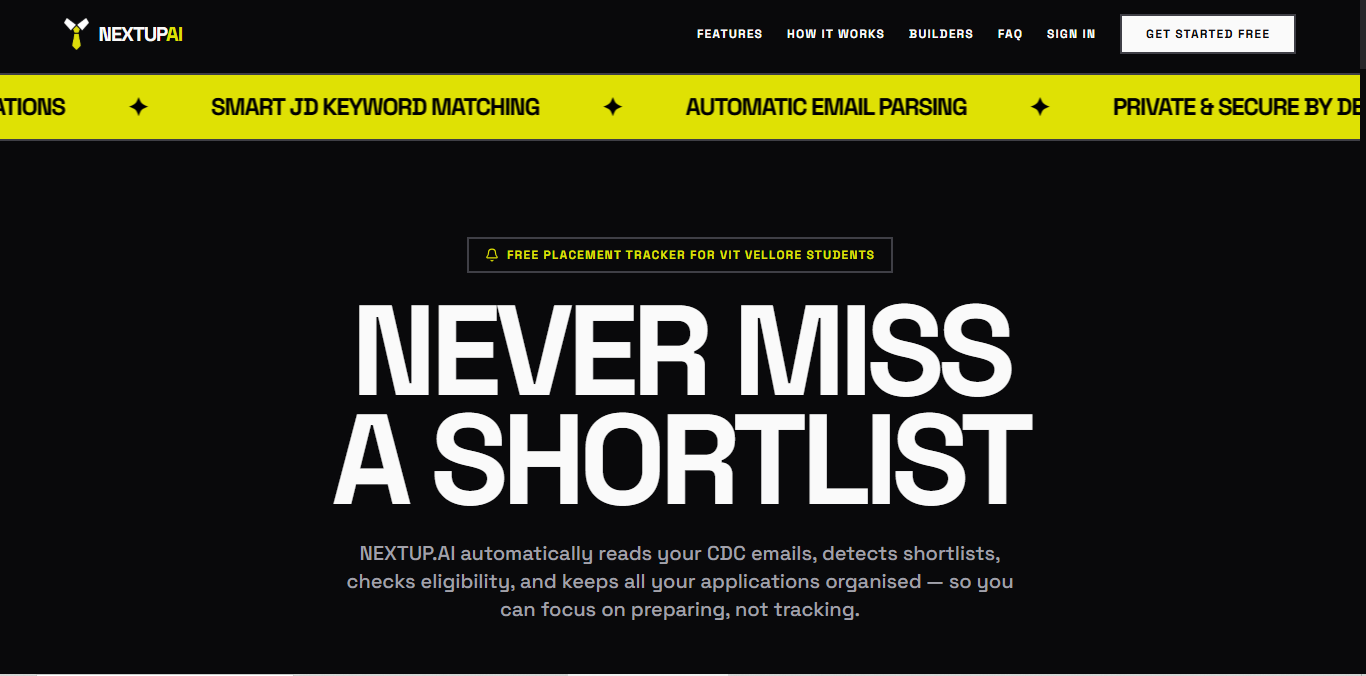
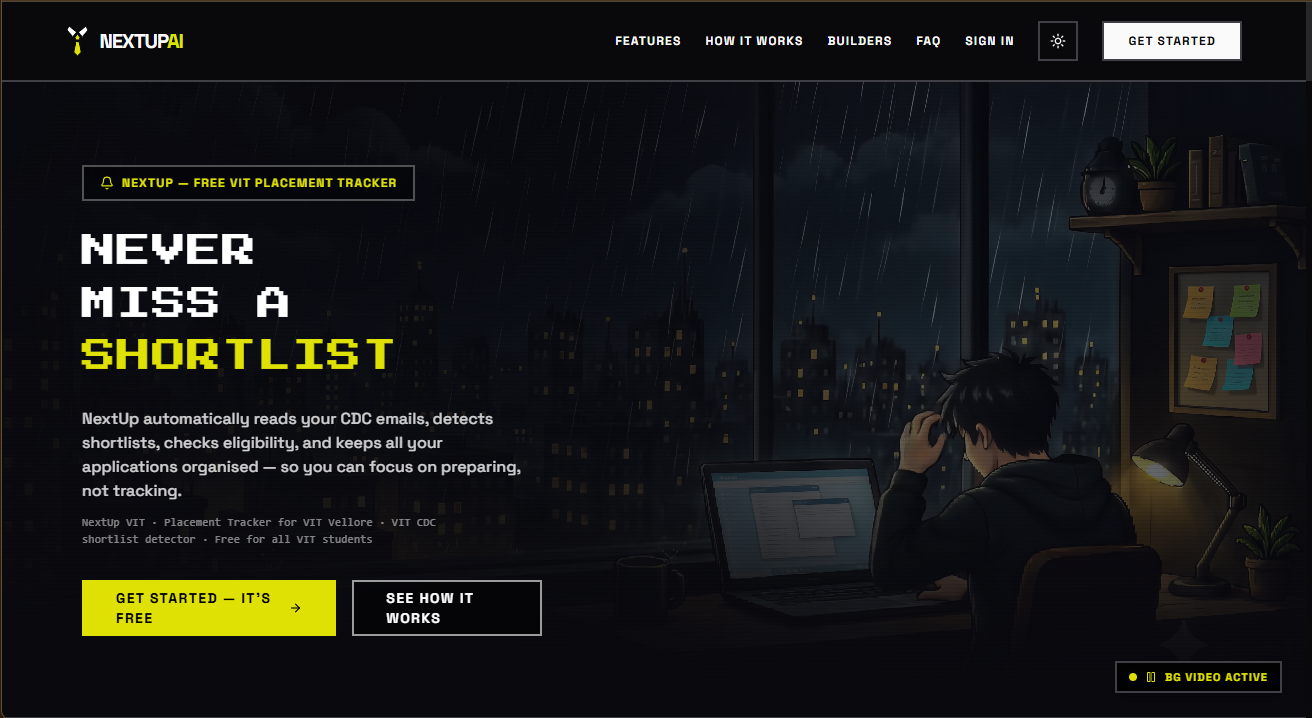
Added conference update and project update

diff --git a/src/sections/Research.tsx b/src/sections/Research.tsx
@@ -12,32 +12,39 @@ interface ResearchProject {
     metrics: { label: string; value: string }[];
     tags: string[];
     index: string;
+    images?: { src: string; caption: string }[];
 }
 
 const researchProjects: ResearchProject[] = [
     {
         title: 'Physics-Augmented Machine Learning Digital Twin for Convergent Truncated Cone Thermosyphon Heat Pipe',
-        shortTitle: 'Thermosyphon ML Twin',
-        organization: 'SET 2026 Conference (Kuala Lumpur, Malaysia)',
-        period: 'August 13 – 15, 2026',
-        status: 'Accepted / Presenting',
-        description: 'Developed an integrated physics-augmented ML digital twin framework from experimental datasets of a Convergent Truncated Cone thermosyphon heat pipe for lithium-ion battery thermal management.',
+        shortTitle: 'Thermosyphon ML Digital Twin',
+        organization: '22nd Int. Conf. on Sustainable Energy Technologies (SET2026 / WSSET) · Kuala Lumpur, Malaysia 🇲🇾',
+        period: 'August 2026',
+        status: 'Presented (Kuala Lumpur)',
+        description: 'Abstract selected and presented at the 22nd International Conference on Sustainable Energy Technologies (SET2026) by WSSET in Kuala Lumpur, Malaysia. Research originated from selection for the UKIERI-SPARC International Research Programme at Heriot-Watt University, Scotland, and developed into a physics-augmented digital twin for performance prediction, design optimization, and safety monitoring of convergent truncated cone thermosyphon heat pipes.',
         highlights: [
+            'Presented research paper at the 22nd International Conference on Sustainable Energy Technologies (SET2026) in Kuala Lumpur, Malaysia 🇲🇾',
+            'Full Research Progression: UKIERI-SPARC Scholar @ Heriot-Watt University (Scotland) → Research Paper → SET2026 Presentation',
+            'Co-authored & presented alongside Dr. Sakthivadivel D, Associate Professor & Assistant Director, School of Mechanical Engineering, VIT',
+            'Key Scientific Discovery: Optimal thermosyphon geometry changes dynamically with heat input, highlighting the necessity of adaptive operating design',
             'Physics-augmented ML digital twin with seven integrated modules for passive thermal management modeling',
             'Random Forest Classifier achieving steady-state detection with an F1-score of 97.85% ± 2.63% under leave-one-run-out CV',
             'Surrogate models predicting condenser heat transfer coefficient (R² = 0.914) & total thermal resistance (R² = 0.889) on unseen geometries',
-            'Active learning via Gaussian Process Regression with uncertainty-thresholded Latin Hypercube Sampling generating synthetic records',
-            'Dry-out early warning system coupling an Isolation Forest with a thermodynamic physics gate',
-            'Uncovered power-dependent geometric crossover transitioning optimal design across thin-film convection and vigorous nucleate boiling',
+            'Dry-out early warning safety system coupling Isolation Forest with a thermodynamic physics gate',
         ],
         metrics: [
-            { label: 'Steady-State F1', value: '97.85%' },
-            { label: 'Condenser HTC R²', value: '0.914' },
-            { label: 'Thermal Res R²', value: '0.889' },
-            { label: 'Venue', value: 'SET 2026' },
+            { label: 'Conference', value: 'SET2026' },
+            { label: 'Location', value: 'Malaysia 🇲🇾' },
+            { label: 'Steady F1', value: '97.85%' },
+            { label: 'Condenser R²', value: '0.914' },
         ],
-        tags: ['Physics-Augmented ML', 'Digital Twin', 'Thermal Management', 'Anomaly Detection', 'Regression'],
+        tags: ['Physics-Augmented ML', 'Digital Twin', 'Thermosyphon', 'SET2026', 'UKIERI-SPARC', 'Heriot-Watt'],
         index: '01',
+        images: [
+            { src: '/set2026.png', caption: 'Presenting at SET2026 in Kuala Lumpur, Malaysia 🇲🇾' },
+            { src: '/set2026certificate.png', caption: 'Official Certificate of Presentation — SET2026 (WSSET)' },
+        ],
     },
     {
         title: 'Pan-Chronological Vision–Language Transformer for Tamil Script Decipherment',
@@ -202,6 +209,30 @@ export const ResearchSection = () => {
                                             <span key={tag} className="bauhaus-tag text-[#121212]">{tag}</span>
                                         ))}
                                     </div>
+
+                                    {/* Project Images (e.g. SET2026 conference & certificate) */}
+                                    {project.images && project.images.length > 0 && (
+                                        <div className="mt-6 pt-4 border-t-2 border-[#121212]/20 grid sm:grid-cols-2 gap-4">
+                                            {project.images.map((img, i) => (
+                                                <div key={i} className="border-4 border-[#121212] bg-[#121212] flex flex-col overflow-hidden group shadow-[4px_4px_0px_0px_#121212]">
+                                                    <div className="relative h-44 overflow-hidden bg-[#1A1A1D]">
+                                                        {/* eslint-disable-next-line @next/next/no-img-element */}
+                                                        <img 
+                                                            src={img.src} 
+                                                            alt={img.caption} 
+                                                            className="w-full h-full object-cover group-hover:scale-105 transition-transform duration-300"
+                                                        />
+                                                    </div>
+                                                    <div className="p-2.5 bg-white border-t-2 border-[#121212] text-[10px] font-bold text-[#121212] uppercase tracking-wide flex items-center justify-between gap-2">
+                                                        <span className="truncate">{img.caption}</span>
+                                                        <a href={img.src} target="_blank" rel="noopener noreferrer" className="text-[#D02020] font-black shrink-0 hover:underline">
+                                                            Full ↗
+                                                        </a>
+                                                    </div>
+                                                </div>
+                                            ))}
+                                        </div>
+                                    )}
                                 </div>
 
                                 {/* Metrics grid */}
@@ -246,7 +277,7 @@ export const ResearchSection = () => {
                     </h3>
                     <div className="grid sm:grid-cols-3 gap-4">
                         {[
-                            { type: 'Conference (SET 2026)', title: 'Physics-Augmented Machine Learning Digital Twin for Convergent Truncated Cone Thermosyphon Heat Pipe', status: 'Accepted' },
+                            { type: 'Conference Presentation (SET2026)', title: 'Physics-Augmented ML Digital Twin for Thermosyphon Heat Pipe — Presented in Kuala Lumpur, Malaysia 🇲🇾', status: 'Presented' },
                             { type: 'Patent (2025)', title: 'Wardrobe Colour Diversity & Personalized CVD Gamut Modeling System', status: 'Published' },
                             { type: 'Patent (2025)', title: 'Pan-Chronological Vision–Language Transformer for Tamil Script Decipherment', status: 'Published' },
                         ].map(output => (
@@ -255,8 +286,8 @@ export const ResearchSection = () => {
                                     <span
                                         className="text-[11px] font-black px-2 py-1 uppercase tracking-wider border-2 border-[#121212]"
                                         style={{
-                                            backgroundColor: output.status === 'Published' ? '#1040C0' : output.status === 'Accepted' ? '#F0C020' : '#D02020',
-                                            color: output.status === 'Accepted' ? '#121212' : '#fff',
+                                            backgroundColor: output.status === 'Published' ? '#1040C0' : output.status === 'Presented' ? '#F0C020' : '#D02020',
+                                            color: output.status === 'Presented' ? '#121212' : '#fff',
                                         }}
                                     >
                                         {output.status}

diff --git a/src/sections/Achievements.tsx b/src/sections/Achievements.tsx
@@ -5,90 +5,82 @@ import dynamic from 'next/dynamic';
 const FlowingMenu = dynamic(() => import('@/components/animations/FlowingMenu'), { ssr: false });
 
 const achievementItems = [
+  { link: '#research', text: 'SET2026 Int. Conference Speaker — Kuala Lumpur, Malaysia 🇲🇾', image: '/set2026.png' },
+  { link: '#projects', text: 'NextUp VIT — 100+ Active Users Placement Tracker', image: '/projects/nextup.png' },
   { link: '#', text: 'GATE CSE 2026 — AIR 1603 · Score 670', image: '/gate.png' },
+  { link: '#research', text: 'UKIERI 2025 Research Scholar — Heriot-Watt University, Scotland', image: '/ukieri.jpeg' },
   { link: '#', text: 'Gen AI Using IBM Watsonx Certification', image: '/projects/ibm.png' },
   { link: '#', text: "Judges' Choice — Sankalp Innovation Challenge 2026 · MNNIT Allahabad", image: '/projects/janvedha.jpeg' },
-  { link: '#', text: 'UKIERI 2025 Research Scholar — Heriot-Watt University', image: '/ukieri.jpeg' },
   { link: '#', text: 'India Innovates 2026 Finalist — Bharat Mandapam, New Delhi', image: '/projects/janvedha.jpeg' },
   { link: '#', text: 'Google Cloud Agentic AI Hackathon Finalist', image: 'https://images.unsplash.com/photo-1573804633927-bfcbcd909acd?w=400&q=80' },
   { link: '#', text: 'DeepShiva LLM Hackathon Finalist', image: 'https://images.unsplash.com/photo-1555255707-c07966088b7b?w=400&q=80' },
   { link: '#', text: 'Code4Change Hackathon Finalist — Project Granite', image: '/projects/granite.jfif' },
-  { link: '#', text: 'Board Member — Design Lead @ AEE VIT', image: 'https://images.unsplash.com/photo-1522071820081-009f0129c71c?w=400&q=80' },
-  { link: '#', text: 'Senior Core Member — CodeChef VIT & TAM-VIT AI/ML Club', image: 'https://images.unsplash.com/photo-1461749280684-dccba630e2f6?w=400&q=80' },
 ];
 
 const achievementCards = [
   {
-    icon: '🎓',
+    icon: '🌏',
     index: '01',
-    title: 'GATE CSE 2026',
-    description: 'Secured GATE CSE 2026 with a score of 670 and All India Rank 1603 — a nationally recognised benchmark of CS fundamentals and engineering aptitude, qualifying for PSU and IIT/IISc PG admissions.',
-    tags: ['AIR 1603', 'Score 670', 'CSE 2026'],
+    title: 'SET2026 Int. Conference Speaker',
+    description: 'Presented research on Physics-Augmented ML Digital Twins for Thermosyphon Heat Pipes at the 22nd International Conference on Sustainable Energy Technologies (SET2026) by WSSET in Kuala Lumpur, Malaysia. Journey: UKIERI-SPARC @ Heriot-Watt → SET2026 with Dr. Sakthivadivel D.',
+    tags: ['SET2026', 'Kuala Lumpur 🇲🇾', 'WSSET', 'Speaker'],
     accent: '#D02020',
   },
   {
-    icon: '🤖',
+    icon: '🎓',
     index: '02',
-    title: 'Gen AI using IBM Watsonx',
-    description: 'Professional certification demonstrating expertise in Generative AI architectures, prompt engineering, model tuning, and enterprise LLM deployment using IBM Watsonx platform.',
-    tags: ['IBM Certified', 'Generative AI', 'Watsonx'],
+    title: 'GATE CSE 2026 (AIR 1603)',
+    description: 'Secured GATE CSE 2026 with a score of 670 and All India Rank 1603 — a nationally recognised benchmark of CS fundamentals and engineering aptitude, qualifying for PSU and IIT/IISc PG admissions.',
+    tags: ['AIR 1603', 'Score 670', 'CSE 2026'],
     accent: '#1040C0',
   },
   {
-    icon: '🏆',
+    icon: '🚀',
     index: '03',
-    title: "Judges' Choice — Sankalp 2026",
-    description: "Won Judges' Choice Award at the Sankalp Innovation Challenge 2026 at MNNIT Allahabad, Prayagraj — a national-level AI and innovation challenge in association with Medha AI. Built JanVedha AI, a civic decision intelligence platform.",
-    tags: ['National Award', 'AI for India', 'MNNIT Allahabad'],
+    title: 'NextUp Placement Tracker (100+ Users)',
+    description: 'Built & launched NextUp, an automated placement intelligence platform for VIT students. Features zero-knowledge client-side encryption, Gmail AI ingestion, and shortlist matching. Deployed live with 100+ active student users.',
+    tags: ['100+ Active Users', 'Zero-Knowledge', 'Live App'],
     accent: '#F0C020',
   },
   {
-    icon: '🇮🇳',
-    index: '04',
-    title: 'India Innovates 2026 Finalist',
-    description: "Finalist at India Innovates 2026 — the World's Largest Civic Tech Hackathon, held at Bharat Mandapam, New Delhi on 28 March 2026. Among the brightest student innovators selected to present governance, security, and national systems solutions.",
-    tags: ['Bharat Mandapam', 'Civic Tech', 'New Delhi'],
-    accent: '#D02020',
-  },
-  {
     icon: '🏛',
-    index: '05',
+    index: '04',
     title: 'UKIERI 2025 Research Scholar',
     description: "Nationally selected (Top 9) for UK–India bilateral hydrogen research exchange. Applied AI/ML skills in data analysis and optimization at Heriot-Watt University's Research Centre for Carbon Solutions.",
     tags: ['International', 'Research', 'Heriot-Watt'],
+    accent: '#D02020',
+  },
+  {
+    icon: '🏆',
+    index: '05',
+    title: "Judges' Choice — Sankalp 2026",
+    description: "Won Judges' Choice Award at the Sankalp Innovation Challenge 2026 at MNNIT Allahabad, Prayagraj — a national-level AI and innovation challenge in association with Medha AI. Built JanVedha AI, a civic decision intelligence platform.",
+    tags: ['National Award', 'AI for India', 'MNNIT Allahabad'],
     accent: '#1040C0',
   },
   {
-    icon: '☁',
+    icon: '🇮🇳',
     index: '06',
-    title: 'Google Cloud Agentic AI Hackathon',
-    description: "Finalist in Google Cloud's Agentic AI Hackathon. Developed a multi-agent system leveraging Gemini and Vertex AI for intelligent workflow automation.",
-    tags: ['Google Cloud', 'Agentic AI', 'Finalist'],
+    title: 'India Innovates 2026 Finalist',
+    description: "Finalist at India Innovates 2026 — the World's Largest Civic Tech Hackathon, held at Bharat Mandapam, New Delhi on 28 March 2026. Among the brightest student innovators selected to present governance, security, and national systems solutions.",
+    tags: ['Bharat Mandapam', 'Civic Tech', 'New Delhi'],
     accent: '#F0C020',
   },
   {
     icon: '🤖',
     index: '07',
-    title: 'DeepShiva LLM Hackathon Finalist',
-    description: 'Finalist in the DeepShiva LLM Hackathon. Built a domain-specific RAG pipeline for Indian legal document analysis.',
-    tags: ['LLM', 'RAG', 'Finalist'],
+    title: 'Gen AI using IBM Watsonx',
+    description: 'Professional certification demonstrating expertise in Generative AI architectures, prompt engineering, model tuning, and enterprise LLM deployment using IBM Watsonx platform.',
+    tags: ['IBM Certified', 'Generative AI', 'Watsonx'],
     accent: '#D02020',
   },
   {
-    icon: '🎨',
+    icon: '☁',
     index: '08',
-    title: 'Board Member — Design Lead, AEE VIT',
-    description: 'Elected Board Member and Design Lead for the Association of Electrical Engineers (AEE) at VIT. Led visual identity and UX across 10+ events attended by 500+ students.',
-    tags: ['Leadership', 'Design', 'VIT'],
+    title: 'Google Cloud Agentic AI Hackathon',
+    description: "Finalist in Google Cloud's Agentic AI Hackathon. Developed a multi-agent system leveraging Gemini and Vertex AI for intelligent workflow automation.",
+    tags: ['Google Cloud', 'Agentic AI', 'Finalist'],
     accent: '#1040C0',
-  },
-  {
-    icon: '💻',
-    index: '09',
-    title: 'Senior Core Member — CodeChef VIT',
-    description: 'Organized coding events, workshops, and hackathons for 1,000+ students. Led competitive programming workshops and mentored junior members at CodeChef VIT & TAM-VIT AI/ML Club.',
-    tags: ['Competitive Programming', 'Mentoring', '1000+ Students'],
-    accent: '#F0C020',
   },
 ];
 

diff --git a/src/sections/Projects.tsx b/src/sections/Projects.tsx
@@ -45,20 +45,21 @@ const featuredProjects = [
     accent: '#D02020',
   },
   {
-    category: 'Full Stack • AI Systems',
+    category: 'Full Stack • AI Systems • Live Production',
     index: '03',
     year: '2026',
-    title: 'NextUp.ai',
-    subtitle: 'AI-Powered Placement Intelligence Platform',
-    description: 'A privacy-first, zero-knowledge placement tracker that reads campus recruitment emails, detects shortlists, verifies eligibility, and tailors ATS-optimized resumes using self-hosted LLMs, run on free-tier infrastructure.',
+    title: 'NextUp VIT',
+    subtitle: 'Free Campus Placement & CDC Email Intelligence Tracker (100+ Active Users)',
+    description: 'The free campus placement tracker built by VIT students, for VIT students. Automatically ingests CDC emails, parses drive details via self-hosted LLMs, detects shortlists using zero-knowledge blind indexes, verifies multi-tier eligibility, and tailors ATS-optimized resumes — deployed live and actively used by 100+ VIT students.',
     results: [
-      'Zero-Knowledge Privacy: Browser-based AES-256-GCM encryption + peppered HMAC blind indexes for shortlist matching',
-      'Email Intelligence: Self-hosted LLM (Qwen 3B) parser with deterministic grounding gates filtering out hallucinations',
-      'ATS Resume Tailoring: Relevance-gated project selection, micro-batched LLM passes, and a LaTeX-quality PyMuPDF renderer',
-      'Reliable Stage Machine: Event-driven tracking guarding stages from duplicate lists or roster list false positives',
+      '100+ Active Users: Deployed live and actively processing campus placement drives for VIT Vellore students',
+      'Zero-Knowledge Privacy: Client-side AES-256-GCM encryption + peppered HMAC blind indexes for shortlist matching without server reading student IDs',
+      'Email Intelligence: Self-hosted LLM (Qwen 3B) email parser with deterministic grounding gates re-verifying extracted facts against source text',
+      'ATS Resume Tailoring: Relevance-gated project selection, micro-batched LLM passes, ATS vs Readability dual-scoring, and LaTeX-quality PyMuPDF renderer',
     ],
-    stack: ['Next.js 14', 'FastAPI', 'PostgreSQL', 'Redis', 'WebCrypto', 'Ollama', 'PyMuPDF', 'Docker'],
+    stack: ['Next.js 14', 'FastAPI', 'PostgreSQL', 'Redis', 'WebCrypto', 'Ollama (Qwen 3B)', 'PyMuPDF', 'Docker'],
     link: 'https://project-next-up.vercel.app/',
+    apiDocs: 'https://project-nextup.onrender.com/docs',
     github: 'https://github.com/JKSANJAY27/Project-NextUp/',
     image: '/projects/nextup.png',
     accent: '#F0C020',
@@ -251,6 +252,16 @@ export const ProjectsSection = () => {
                   >
                     View Live ↗
                   </a>
+                  {project.apiDocs && (
+                    <a
+                      href={project.apiDocs}
+                      target="_blank"
+                      rel="noopener noreferrer"
+                      className="bauhaus-btn bauhaus-btn-outline text-xs"
+                    >
+                      API Docs ⚡
+                    </a>
+                  )}
                   <a
                     href={project.github}
                     target="_blank"

diff --git a/src/sections/About.tsx b/src/sections/About.tsx
@@ -42,8 +42,8 @@ const SummaryTab = () => (
       LLM pipelines, Graph RAG applications, and full-stack products that solve real-world problems.
     </p>
     <p className="text-[#121212]/60 text-sm leading-relaxed mb-6 font-medium">
-      Designed and deployed applications used by <span className="text-[#121212] font-black">200+ users</span>.{' '}
-      Pursuing research in multimodal AI with <span className="text-[#121212] font-black">2 patents published</span>.
+      Designed and deployed applications used by <span className="text-[#121212] font-black">300+ active users</span> (including NextUp placement tracker).{' '}
+      Presented research at <span className="text-[#121212] font-black">SET2026 (Kuala Lumpur, Malaysia)</span> with <span className="text-[#121212] font-black">2 patents published</span>.
       Secured <span className="text-[#121212] font-black">GATE CSE 2026 (AIR 1603)</span> — seeking internship &amp; full-time roles in AI Engineering and Software Engineering.
     </p>
     <div className="mt-auto grid grid-cols-3 gap-3">

diff --git a/src/sections/Hero.tsx b/src/sections/Hero.tsx
@@ -140,7 +140,7 @@ export const HeroSection = () => {
               <span className="text-[#121212] font-black">AI Engineer &amp; Software Engineer</span> — CS student at{' '}
               <span className="text-[#D02020] font-black">VIT (CGPA 9.34)</span> building production AI systems,
               full-stack applications, and LLM pipelines that make real-world impact.
-              GATE CSE 2026 · AIR 1603 · 2 Patents Published · UKIERI Scholar.
+              SET2026 Speaker (Malaysia 🇲🇾) · GATE CSE 2026 (AIR 1603) · 2 Patents · UKIERI Scholar.
             </p>
 
             {/* CTAs */}
